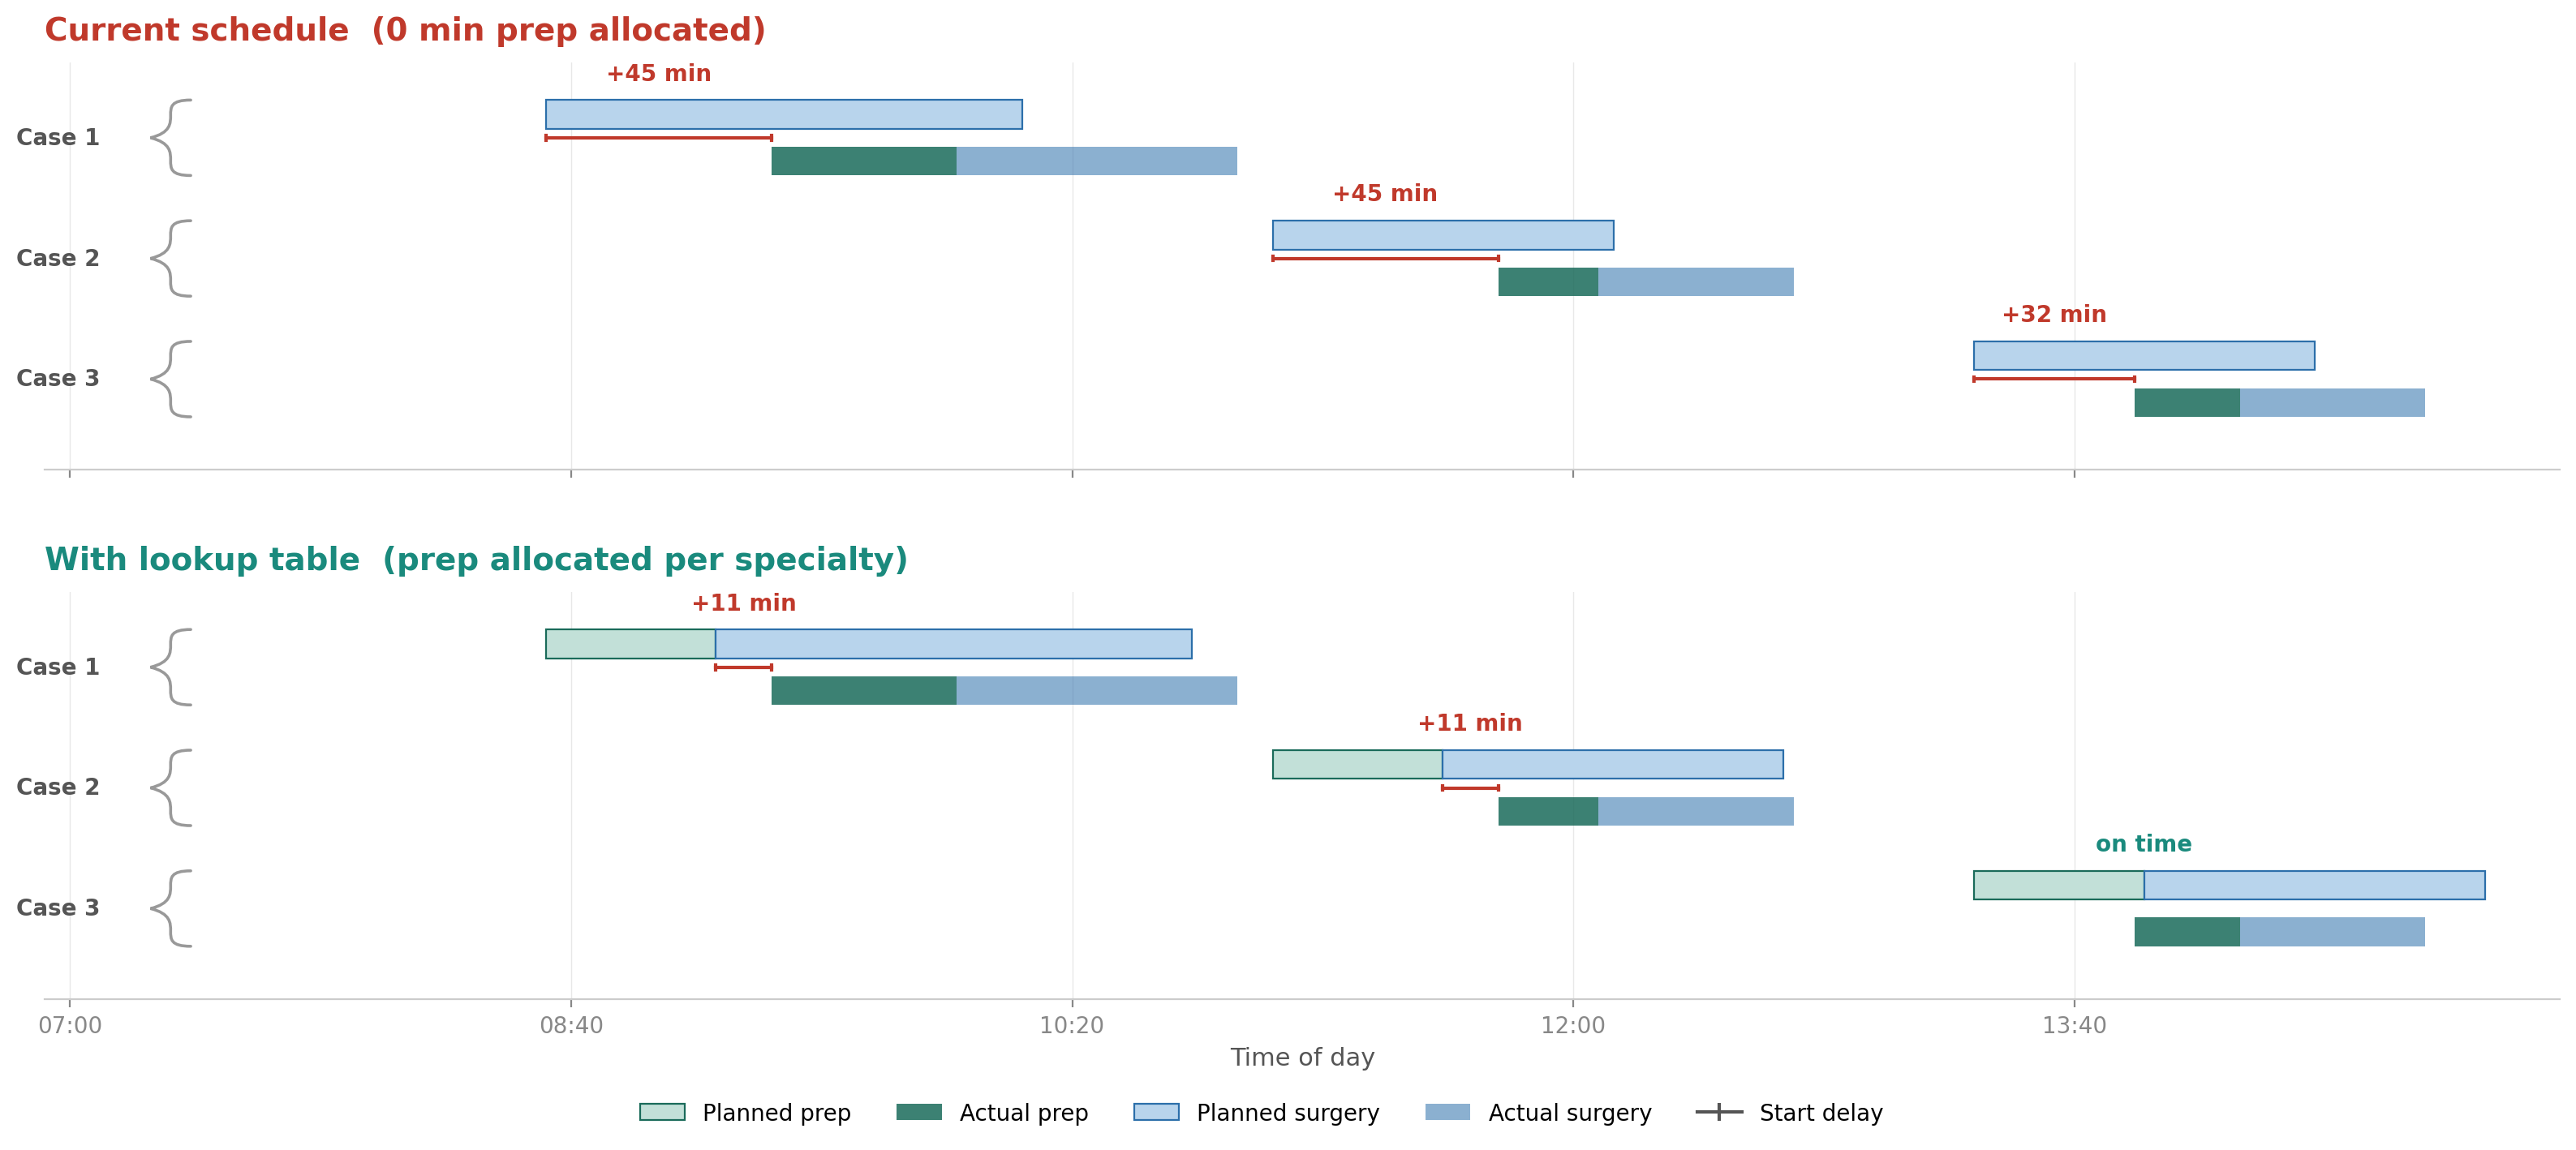
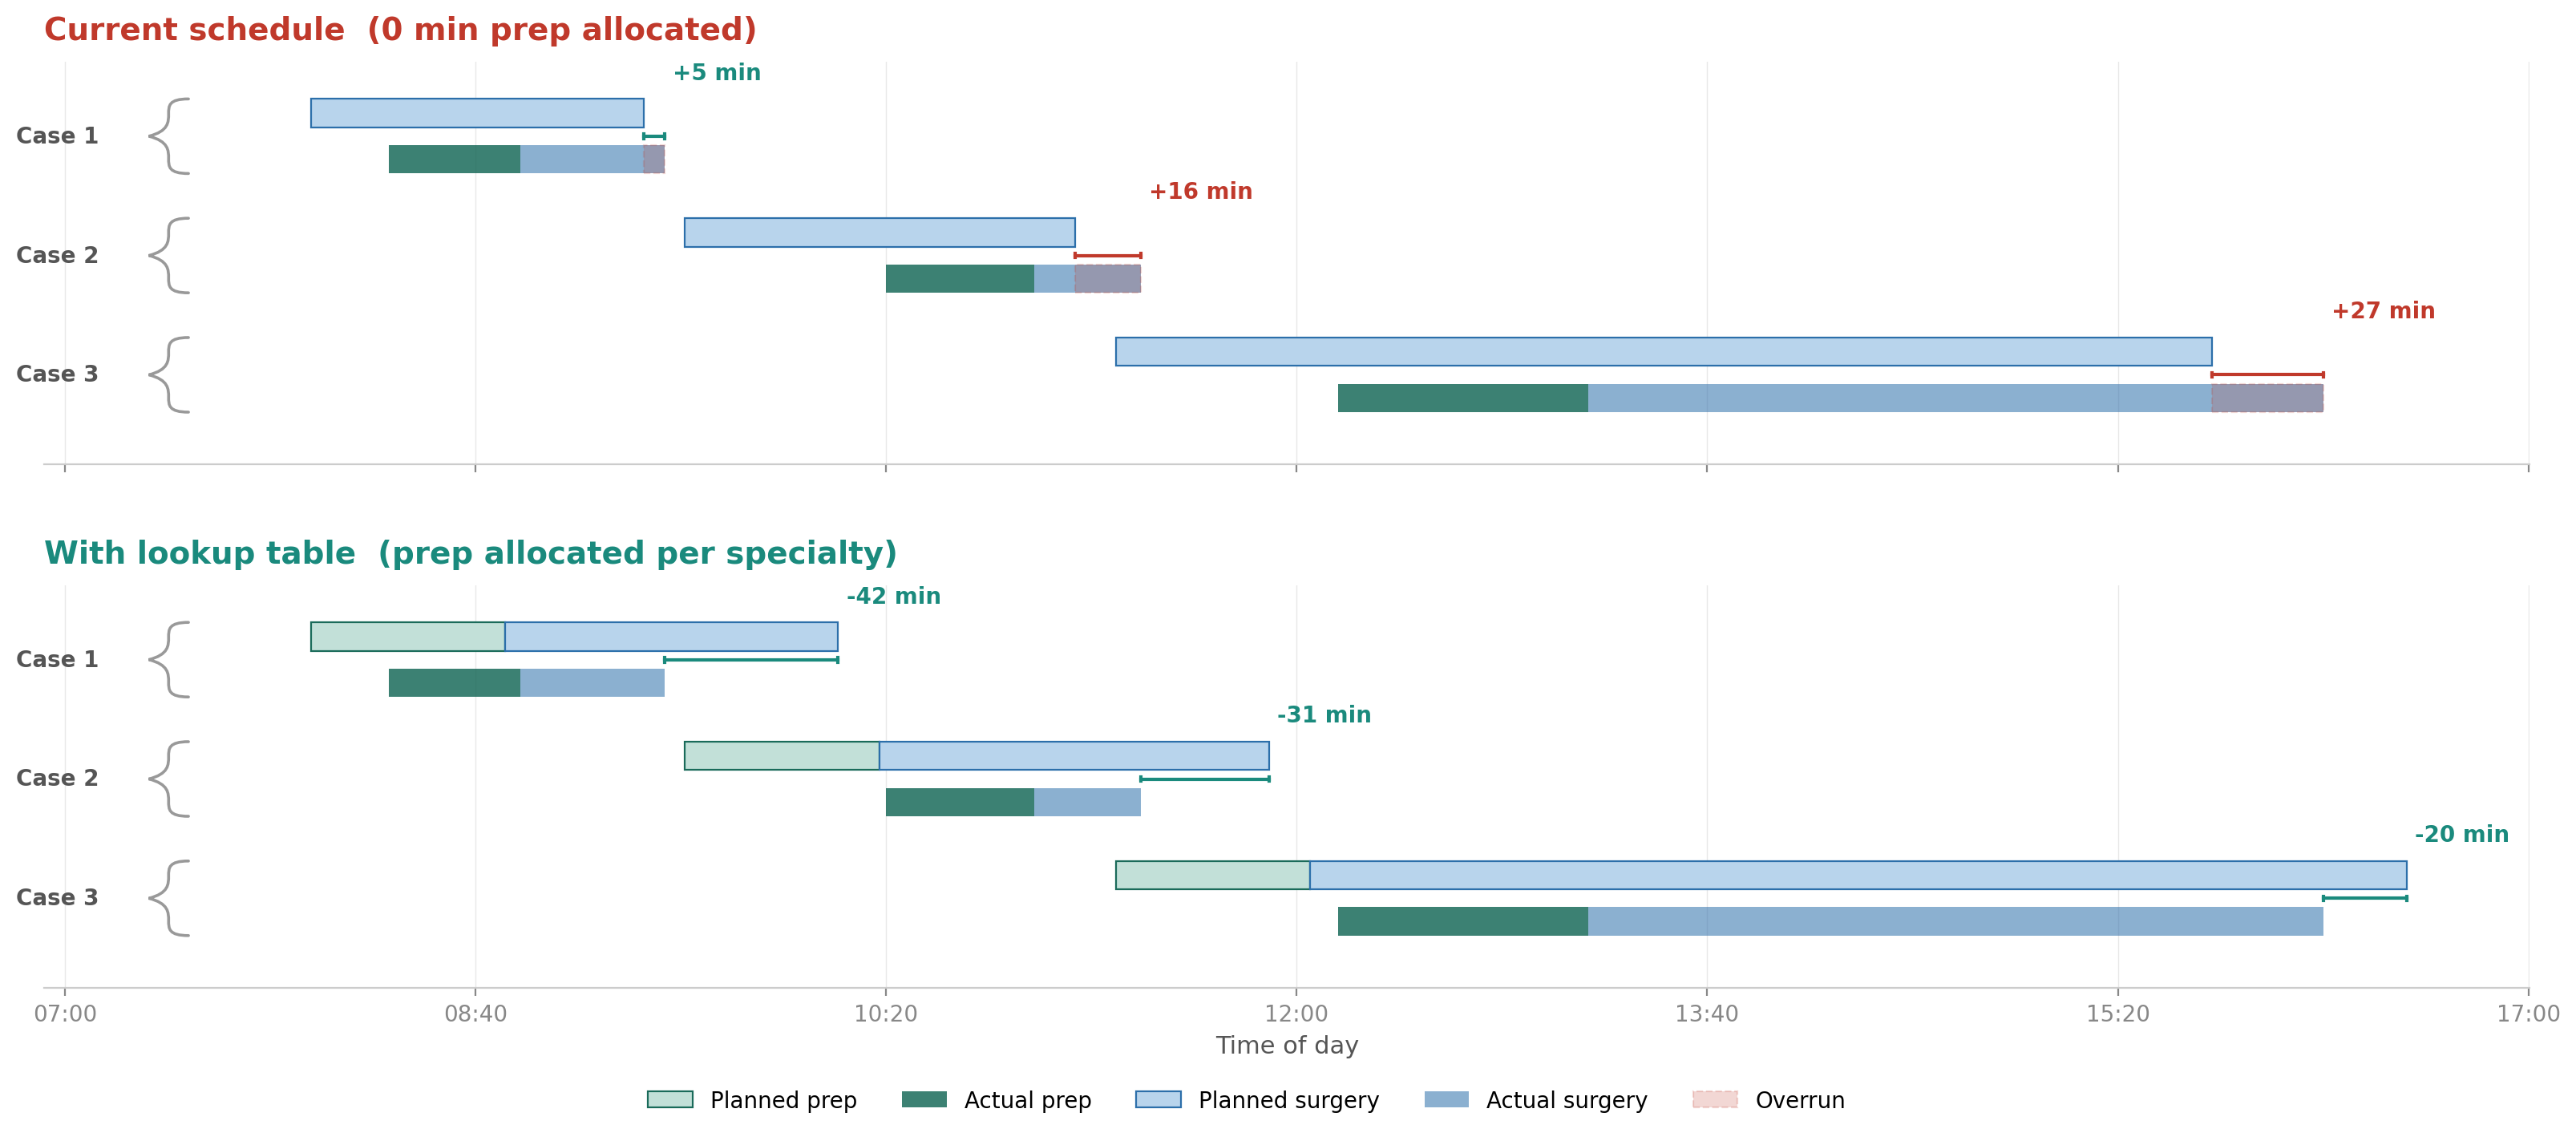
mat room

diff --git a/poster/final/fix_gantt.py b/poster/final/fix_gantt.py
@@ -1,4 +1,8 @@
-"""Panel 3: Before/after Gantt — same OR day, current vs lookup schedule."""
+"""Panel 3: Before/after Gantt — same OR day, current vs lookup schedule.
+
+Metric: overrun (Overskredet) — how late the patient leaves the OR
+relative to the planned departure time.
+"""
 
 import polars as pl
 import matplotlib.pyplot as plt
@@ -32,6 +36,8 @@ df = df.with_columns([
      .dt.total_seconds() / 60).alias("w2_min"),
     ((pl.col("ts_procedure_end") - pl.col("ts_procedure_start"))
      .dt.total_seconds() / 60).alias("surgery_dur_min"),
+    ((pl.col("ts_procedure_end") - pl.col("ts_patient_leaves_or_planned"))
+     .dt.total_seconds() / 60).alias("overrun_min"),
     pl.col("ts_anesthesia_start").is_not_null().alias("has_anesthesia"),
 ])
 
@@ -45,23 +51,24 @@ lookup = w2_filt.group_by(["specialty", "has_anesthesia"]).agg(
     pl.col("w2_min").mean().alias("lookup_prep")
 )
 
-# --- Find a good OR day ---
+# --- Find a good OR day (select by overrun, not start delay) ---
 candidates = (
     df.filter(
         pl.col("planned_prep_min").is_not_null()
         & (pl.col("planned_prep_min") == 0)
-        & pl.col("start_delay_min").is_not_null()
-        & (pl.col("start_delay_min").is_between(15, 90))
+        & pl.col("overrun_min").is_not_null()
+        & (pl.col("overrun_min").is_between(15, 90))
         & pl.col("w2_min").is_not_null()
         & pl.col("surgery_dur_min").is_not_null()
         & (pl.col("surgery_dur_min").is_between(20, 180))
         & pl.col("specialty").is_not_null()
         & pl.col("ts_procedure_end").is_not_null()
+        & pl.col("ts_patient_leaves_or_planned").is_not_null()
         & (pl.col("ts_patient_in_or_planned").dt.hour().is_between(7, 16))
     )
     .join(lookup, on=["specialty", "has_anesthesia"])
     .with_columns(
-        (pl.col("start_delay_min") - pl.col("lookup_prep")).alias("new_delay")
+        (pl.col("overrun_min") - pl.col("lookup_prep")).alias("new_overrun")
     )
 )
 
@@ -70,51 +77,45 @@ or_days = (
     .group_by(["or_room", "date"])
     .agg([
         pl.len().alias("n_cases"),
-        pl.col("start_delay_min").mean().alias("mean_old_delay"),
-        pl.col("new_delay").mean().alias("mean_new_delay"),
-        pl.col("new_delay").abs().mean().alias("mean_abs_new_delay"),
-        (pl.col("new_delay").abs() < 15).sum().alias("n_good_fix"),
+        pl.col("overrun_min").mean().alias("mean_old_overrun"),
+        pl.col("new_overrun").mean().alias("mean_new_overrun"),
+        pl.col("new_overrun").abs().mean().alias("mean_abs_new_overrun"),
+        (pl.col("new_overrun").abs() < 15).sum().alias("n_good_fix"),
     ])
     .filter(
         (pl.col("n_cases").is_between(3, 4))
         & (pl.col("n_good_fix") >= 3)
-        & (pl.col("mean_old_delay") > 30)
-        & (pl.col("mean_abs_new_delay") < 12)
+        & (pl.col("mean_old_overrun") > 20)
+        & (pl.col("mean_abs_new_overrun") < 15)
     )
     .with_columns(
-        (pl.col("mean_old_delay") - pl.col("mean_abs_new_delay")).alias("score")
+        (pl.col("mean_old_overrun") - pl.col("mean_abs_new_overrun")).alias("score")
     )
     .sort("score", descending=True)
 )
 
-best_room, best_date = None, None
-for day in or_days.iter_rows(named=True):
-    day_cases = (
-        candidates
-        .filter(
-            (pl.col("or_room") == day["or_room"])
-            & (pl.col("date") == day["date"])
-        )
-        .sort("ts_patient_in_or_planned")
-        .head(3)
+from datetime import date as _date
+best_room = "OPNORD 13.117 (H)"
+best_date = _date(2025, 11, 19)
+
+# Pull all cases for this day (bypass strict candidate filters)
+day_df = (
+    df.filter(
+        (pl.col("or_room") == best_room)
+        & (pl.col("date") == best_date)
+        & pl.col("overrun_min").is_not_null()
+        & pl.col("ts_procedure_end").is_not_null()
+        & pl.col("specialty").is_not_null()
+        & pl.col("w2_min").is_not_null()
     )
-    day_rows = day_cases.to_dicts()
-
-    has_overlap = False
-    for k in range(len(day_rows) - 1):
-        gap = (day_rows[k + 1]["ts_patient_in_or_planned"]
-               - day_rows[k]["ts_patient_leaves_or_planned"]).total_seconds() / 60
-        if gap < day_rows[k]["lookup_prep"]:
-            has_overlap = True
-            break
-
-    if not has_overlap:
-        best_room, best_date = day["or_room"], day["date"]
-        cases = day_cases
-        break
-
-if best_room is None:
-    raise RuntimeError("No OR day found without fix-panel overlap")
+    .join(lookup, on=["specialty", "has_anesthesia"])
+    .with_columns(
+        (pl.col("overrun_min") - pl.col("lookup_prep")).alias("new_overrun")
+    )
+    .sort("ts_patient_in_or_planned")
+    .head(3)
+)
+cases = day_df
 
 rows = cases.to_dicts()
 n_cases = len(rows)
@@ -139,7 +140,7 @@ for c in rows:
     all_ends.append(plan_end_s + lkp)
 
 x_min = -5
-x_max = max(all_ends) + 15
+x_max = max(all_ends) + 30
 
 
 # --- Curly brace helper ---
@@ -205,7 +206,6 @@ for panel_idx, (ax, title) in enumerate(zip(axes, [
         real_in = to_min(c["ts_patient_in_or"])
         proc_start = to_min(c["ts_procedure_start"])
         proc_end = to_min(c["ts_procedure_end"])
-        delay = c["start_delay_min"]
         lkp = c["lookup_prep"]
 
         y_plan = y + gap + bar_h / 2
@@ -225,7 +225,7 @@ for panel_idx, (ax, title) in enumerate(zip(axes, [
                     height=bar_h, color=SURGERY_LIGHT, edgecolor=SURGERY_COLOR,
                     linewidth=0.8, zorder=2)
 
-        # --- Actual bar: prep (always teal) + surgery (always blue) ---
+        # --- Actual bar: prep (teal) + surgery (blue) ---
         ax.barh(y_real, proc_start - real_in, left=real_in,
                 height=bar_h, color=PREP_COLOR, edgecolor="none",
                 alpha=0.85, zorder=2)
@@ -233,46 +233,37 @@ for panel_idx, (ax, title) in enumerate(zip(axes, [
                 height=bar_h, color=SURGERY_COLOR, edgecolor="none",
                 alpha=0.55, zorder=2)
 
+        # --- Overrun zone (red overlay past the planned end) ---
+        ref_x = (plan_end + lkp) if is_fix else plan_end
+        case_overrun = proc_end - ref_x
+        if case_overrun > 0:
+            ax.barh(y_real, case_overrun, left=ref_x,
+                    height=bar_h, color=RED, alpha=0.20,
+                    edgecolor=RED, linewidth=0.8, linestyle="--", zorder=3)
+
         # Save brace positions for after limits are set
         brace_info.append((i, y, y_plan + bar_h / 2, y_real - bar_h / 2))
 
-        # --- Delay annotation ---
+        # --- Overrun annotation (right side) ---
         tick_h = 0.03
-        if is_fix:
-            new_delay = delay - lkp
-            new_ref = plan_start + lkp
-            if abs(new_delay) < 3:
-                ax.text(new_ref, y + bar_h + gap + 0.20,
-                        "on time", ha="center", va="bottom",
-                        fontsize=10, fontweight="bold", color=TEAL)
-            else:
-                sign = "+" if new_delay > 0 else ""
-                col = RED if new_delay > 10 else TEAL
-                left_pt = min(new_ref, real_in)
-                right_pt = max(new_ref, real_in)
-                mid = (left_pt + right_pt) / 2
-                ax.plot([left_pt, right_pt], [y, y],
-                        color=col, lw=1.5, zorder=4)
-                ax.plot([left_pt, left_pt], [y - tick_h, y + tick_h],
-                        color=col, lw=1.5, zorder=4)
-                ax.plot([right_pt, right_pt], [y - tick_h, y + tick_h],
-                        color=col, lw=1.5, zorder=4)
-                ax.text(mid, y + bar_h + gap + 0.20,
-                        f"{sign}{new_delay:.0f} min",
-                        ha="center", va="bottom",
-                        fontsize=10, fontweight="bold", color=col)
+        if abs(case_overrun) < 3:
+            ax.text(max(ref_x, proc_end) + 2, y + bar_h + gap + 0.20,
+                    "on time", ha="left", va="bottom",
+                    fontsize=10, fontweight="bold", color=TEAL)
         else:
-            mid = (plan_start + real_in) / 2
-            col = RED
-            ax.plot([plan_start, real_in], [y, y],
+            sign = "+" if case_overrun > 0 else ""
+            col = RED if case_overrun > 10 else TEAL
+            left_pt = min(ref_x, proc_end)
+            right_pt = max(ref_x, proc_end)
+            ax.plot([left_pt, right_pt], [y, y],
                     color=col, lw=1.5, zorder=4)
-            ax.plot([plan_start, plan_start], [y - tick_h, y + tick_h],
+            ax.plot([left_pt, left_pt], [y - tick_h, y + tick_h],
                     color=col, lw=1.5, zorder=4)
-            ax.plot([real_in, real_in], [y - tick_h, y + tick_h],
+            ax.plot([right_pt, right_pt], [y - tick_h, y + tick_h],
                     color=col, lw=1.5, zorder=4)
-            ax.text(mid, y + bar_h + gap + 0.20,
-                    f"+{delay:.0f} min",
-                    ha="center", va="bottom",
+            ax.text(right_pt + 2, y + bar_h + gap + 0.20,
+                    f"{sign}{case_overrun:.0f} min",
+                    ha="left", va="bottom",
                     fontsize=10, fontweight="bold", color=col)
 
     # --- Draw curly braces + case labels (after ylim is set) ---
@@ -315,9 +306,8 @@ legend_elements = [
                    label="Planned surgery"),
     mpatches.Patch(facecolor=SURGERY_COLOR, alpha=0.55,
                    label="Actual surgery"),
-    mlines.Line2D([0, 1], [0, 0], color=GRAY_TEXT, linewidth=1.5,
-                  marker="|", markersize=8, markeredgewidth=1.5,
-                  label="Start delay"),
+    mpatches.Patch(facecolor=RED, alpha=0.20, edgecolor=RED, linewidth=0.8,
+                   linestyle="--", label="Overrun"),
 ]
 fig.legend(handles=legend_elements, loc="lower center", ncol=5, fontsize=10,
            frameon=False, bbox_to_anchor=(0.5, -0.01))
@@ -327,6 +317,7 @@ plt.close()
 print(f"Saved → {OUT}")
 print(f"OR day: {best_room}, {best_date}")
 for i, c in enumerate(rows):
-    nd = c["start_delay_min"] - c["lookup_prep"]
-    print(f"  Case {i+1}: delay {c['start_delay_min']:.0f} → {nd:.0f} min "
+    overrun = c["overrun_min"]
+    new_ov = overrun - c["lookup_prep"]
+    print(f"  Case {i+1}: overrun {overrun:.0f} → {new_ov:.0f} min "
           f"(lookup={c['lookup_prep']:.0f}, specialty={c['specialty']})")